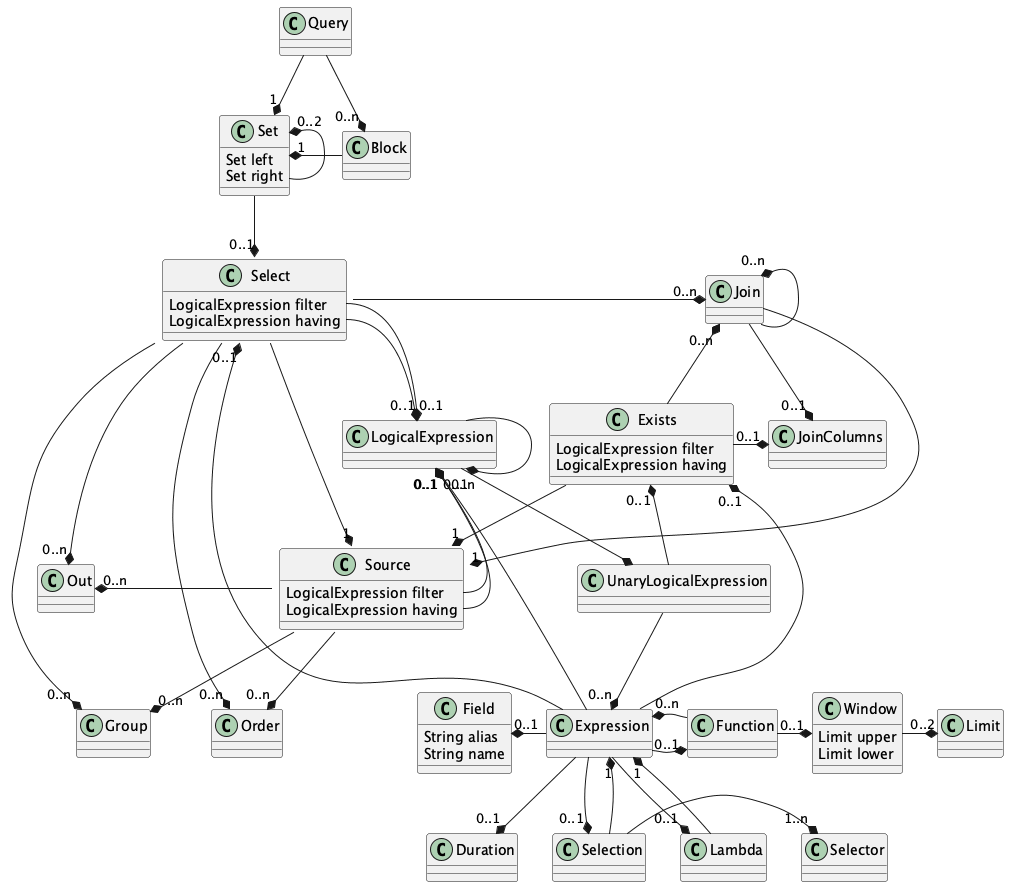
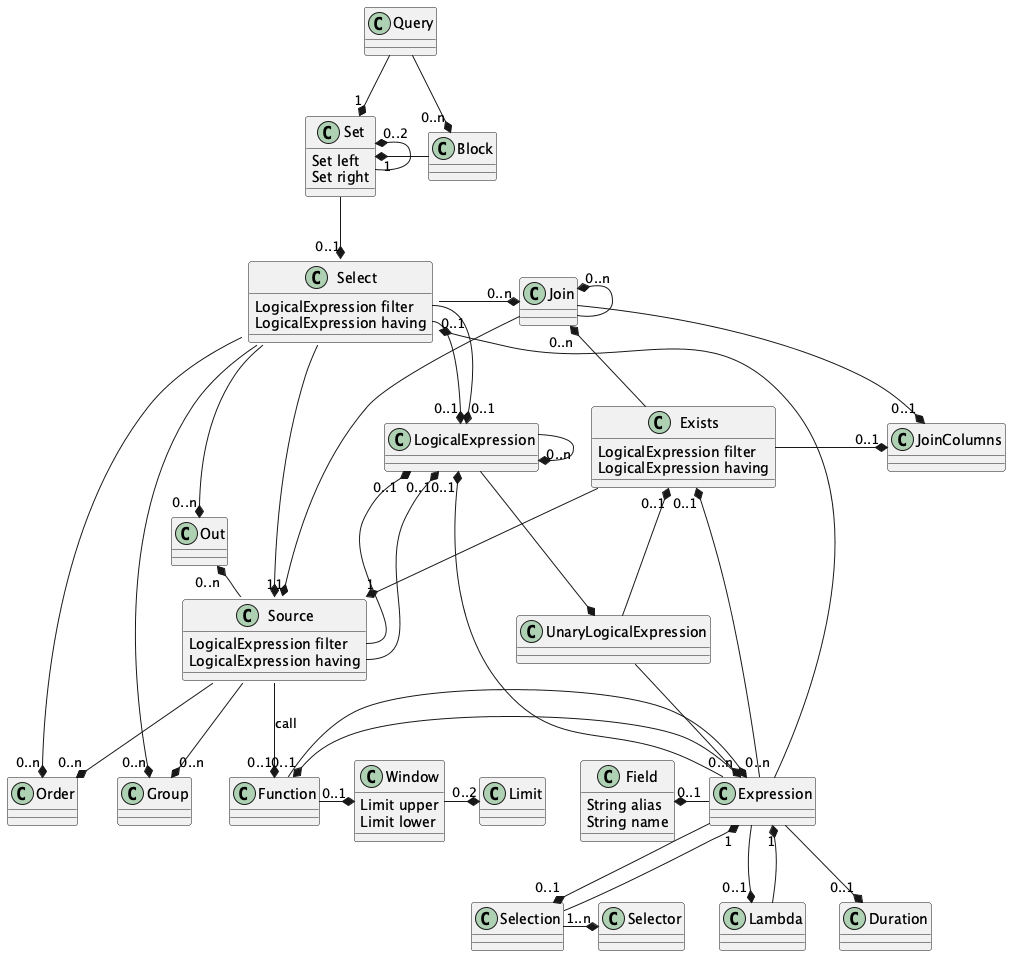
docs: unnest in the validators, rules, model diagram and language overview; ordinal measurement and JSON element wording corrected

diff --git a/docs/IQL.md b/docs/IQL.md
@@ -182,7 +182,7 @@ The rules pipeline is applied **only on the KQL path** (via `KQLTranspiler`) bef
 | 3 | `HavingRule` | Moves predicates containing aggregate functions from `select.filter` to `select.having` |
 | 4 | `GroupRule` | Auto-generates `GROUP BY` items from non-aggregate `OUT` expressions when aggregates are present |
 | 5 | `IdentityRule` | Replaces the `ID` identity placeholder with the actual primary-key column, resolved from the schema |
-| 6 | `SelectorNamesRule` | Translates the names of struct fields in selectors from the words of the model to the keys of the column's concept (`t.address@breitengrad` to `t.address@latitude`) |
+| 6 | `SelectorNamesRule` | Translates the names of struct fields in selectors from the words of the model to the keys of the column's concept (`t.address@breitengrad` to `t.address@latitude`), and the fields of the alias of an `unnest` (`i.artikel` to `i.sku`) |
 | 7 | `PushLogicalExpressionRule` | Moves filter/having predicates that reference only one source into that source's own `filter`/`having` (critical for correctness of LEFT OUTER JOINs) |
 | 8 | `PushGroupRule` | Moves `select.group` items into the corresponding `source.group` |
 | 9 | `PushOrderRule` | Moves `select.order` items into the corresponding `source.order` |
@@ -197,6 +197,8 @@ Semantic validation is run after bean construction and before SQL generation. `V
 **`FunctionValidator`** — detects structurally invalid expressions: an expression that simultaneously contains an aggregate function (e.g., `SUM`, `COUNT`) and a raw column reference is flagged, as this cannot be correctly classified as either a SELECT item or a HAVING predicate.
 
 **`SelectorValidator`** and **`LambdaValidator`** — check selector chains against the type of the value they select from, and lambda parameters, arity and body against the function that takes them (see [Nested values](#nested-values-selections-and-lambdas)).
+
+**`SourceCallValidator`** — a source that is a call may only be `unnest`, with one list argument (violations of category `source`); the rows of it are typed on the fly by `UnnestElements` from the type of the list, and kept in the visibility context, not in the beans (see [Nested values](NESTED.md#unnest-one-row-per-element)).
 
 **`DurationValidator`** and **`DurationValueValidator`** — check interval and duration arithmetic (the second once a dialect is known), and **`NestedSupportValidator`** refuses a use of nested values that the dialect declares it cannot express (see [NESTED.md](NESTED.md)).
 

diff --git a/docs/NESTED.md b/docs/NESTED.md
@@ -117,9 +117,11 @@ from the list, when the query is checked, so every list works the same.
   is kept; where an engine cannot put it there it is refused (see the table).
 - **`count(i)` is refused:** the rows have no key to count. Count a field of the element,
   `count(i.sku)`.
-- **`ordinal` is asked of the database only where the query reads it.** On DuckDB `WITH
-  ORDINALITY` made the same query about thirty times slower on two million rows (measured, see
-  [the plan](plans/unnest.md)), and the rows are otherwise the same.
+- **`ordinal` is asked of the database only where the query reads it,** on DuckDB, PostgreSQL and
+  Trino. On DuckDB `WITH ORDINALITY` made the same query about twenty times slower on two million
+  rows (1,442 against 73 ms, see [the plan](plans/unnest.md)); PostgreSQL showed no difference, and
+  Trino was not measured. The rows are otherwise the same. MariaDB always declares `FOR ORDINALITY`, and the other engines compute the position from
+  what they have (see the table).
 
 What `unnest` refuses, with a position and a message:
 
@@ -162,7 +164,7 @@ Measured, and kept rather than hidden:
   types hold text, numbers and dates), as before.
 - **SQLite, MariaDB and SQL Server** have no lists. They unnest an array inside a JSON column that
   the catalog declares (`.a.b[]: INTEGER`, [see below](#declaring-what-is-in-a-json-column)):
-  `unnest(t.doc@a@b) b`. The elements are scalars, or objects whose members are scalars; a row whose
+  `unnest(t.doc@a@b) b`. The elements are scalars, or objects, whose members are the columns of the rows (read as scalars, so a member that is itself an object or list is not meant for it); a row whose
   document has no array there has no rows, and JSON that is not declared as an array is refused.
   Where `unnest` is given a JSON array on a dialect that has lists, the list is the converted one,
   and the rows are those of any other list.
@@ -199,7 +201,7 @@ declares (`.a.b[]: INTEGER`) is flattened the same way, named by its path:
 ```
 
 gives `check_complex_doc_a_b` (`json_each`, `JSON_TABLE` or `CROSS APPLY OPENJSON`) with the relation
-`doc_a_b_of_check_complex`; the elements are scalars or objects whose members are scalars. A row
+`doc_a_b_of_check_complex`; the elements are scalars or objects, whose scalar members are columns. A row
 whose document has no array there has no elements.
 
 The generator needs a table key. It handles lists of structs and of scalars for DuckDB, PostgreSQL,

diff --git a/docs/MEMBERS_AND_NOTIONS.md b/docs/MEMBERS_AND_NOTIONS.md
@@ -82,6 +82,9 @@ catalog declares has its fields named the same way.
   schema before the query is validated and rendered, so every dialect sees the keys. The match is
   exact, then without regard to case. The step keeps the name as it was written
   (`Selector.written()`) and says the entry it goes to (`Selector.key()`).
+- **It names the fields of an `unnest` row too.** The alias of `unnest(t.items) i` has the fields of the
+  element as columns, and `i.artikel` under a model that calls `sku` `artikel` is `i.sku`; headers take the
+  label of the member.
 - **It works through blocks and `EXISTS`.** The names of a field of a block are those of the column the
   block projects; an output that is computed (a function, a selection) has none.
 - **The key still works** where no other field has taken it as a name: `t.address@street` is accepted

diff --git a/docs/LANGUAGE.md b/docs/LANGUAGE.md
@@ -74,8 +74,9 @@ lambda, an expression with a named parameter and an arrow:
 - A position or a key that is not there gives NULL, not an error.
 - Where the catalog declares the members of a JSON column, `o.doc@n > 0` and `sum(o.doc@a@b@1)` work
   without a cast.
-- One row per element, to group by what is inside a list ("revenue by sku"), is a generated view that
-  the semantic layer treats like any other entity.
+- One row per element, to group by what is inside a list ("revenue by sku"), is the `unnest` source:
+  `FIND orders o, o unnest(o.items) i FETCH i.sku, sum(i.qty)`. A generated view does the same for a
+  semantic layer that wants an entity of its own.
 
 [Nested Values](NESTED.md) is the reference: which selector fits which type, the list functions, what
 each database does, and the flatten views.

diff --git a/docs/RULESET.md b/docs/RULESET.md
@@ -305,7 +305,9 @@ concept, so that the validators and the renderers speak physical keys only.
 The base of the selector may be a field of a table, of a block (the rule follows it to the column the
 block projects) or of a source inside an `EXISTS`. A name the model does not know stays as written, and so
 does any other base, a function result or a computed output: a name the language does not translate is a
-physical key, which is what a query wrote before models had member names. See
+physical key, which is what a query wrote before models had member names. The same holds for the
+fields of the alias of an `unnest` (`i.artikel` for `i.sku`): the rows are typed from the list, and the
+rule translates the word with the concept of the element. See
 [Members and notions](MEMBERS_AND_NOTIONS.md).
 
 ---

diff --git a/docs/functions/list.md b/docs/functions/list.md
@@ -13,7 +13,8 @@ or what another list function or a lambda made. They ask the list about itself (
 `list_contains`, `list_sum`, `list_min`, `list_max`, `list_avg`), shape it (`list_sort`,
 `list_distinct`, `list_concat`) or make one (`list(a, b, ...)`; `list_agg` is an aggregate and is on
 the [Aggregate](aggregate.md) page). The ones that take a function per element, `list_transform`
-and the like, are on the [Lambda](lambda.md) page.
+and the like, are on the [Lambda](lambda.md) page. `unnest` is used as a source, not in an expression: it
+makes a row of each element (`FIND check_complex t, t unnest(t.items) i FETCH i.sku`).
 
     list_size(t.tags)                     →  3
     list_contains(t.tags, 'red')          →  true      -- or: 'red' IN t.tags

diff --git a/tools/src/main/resources/ai/koryki/tools/docs/intro/list.md b/tools/src/main/resources/ai/koryki/tools/docs/intro/list.md
@@ -3,7 +3,8 @@ or what another list function or a lambda made. They ask the list about itself (
 `list_contains`, `list_sum`, `list_min`, `list_max`, `list_avg`), shape it (`list_sort`,
 `list_distinct`, `list_concat`) or make one (`list(a, b, ...)`; `list_agg` is an aggregate and is on
 the [Aggregate](aggregate.md) page). The ones that take a function per element, `list_transform`
-and the like, are on the [Lambda](lambda.md) page.
+and the like, are on the [Lambda](lambda.md) page. `unnest` is used as a source, not in an expression: it
+makes a row of each element (`FIND check_complex t, t unnest(t.items) i FETCH i.sku`).
 
     list_size(t.tags)                     →  3
     list_contains(t.tags, 'red')          →  true      -- or: 'red' IN t.tags

diff --git a/docs/plans/unnest.md b/docs/plans/unnest.md
@@ -26,7 +26,7 @@ validator accepts `unnest` only. It replaced the two ideas below:
   position only where the query reads it.
 
 Where the plan said "not measured": Trino, Snowflake, Oracle, SQL Server, MariaDB and SQLite were
-run against the live beds with one shared contract (`UnnestContract`, `UnnestJsonContract`), and
+run against the live beds with the shared corpus of the northwind fixtures (`unnest`), and
 what they differ in is in the table of [Nested values](../NESTED.md#what-each-dialect-does). The
 generated-data test (seeded random rows in tables of several shapes, with the answers computed from the
 rows) exists for Oracle and DuckDB, in `GeneratedListsContract`; the other dialects can extend it. Still
